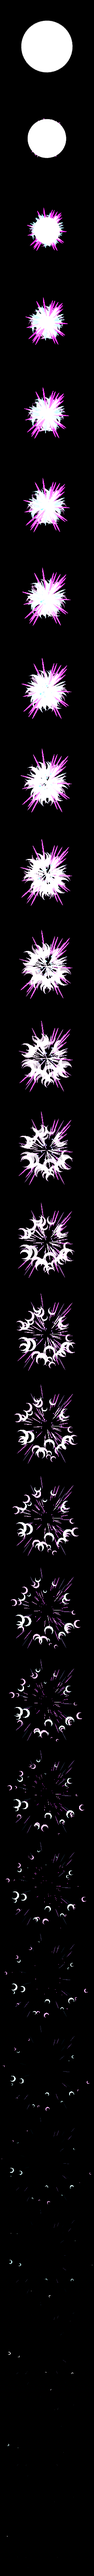
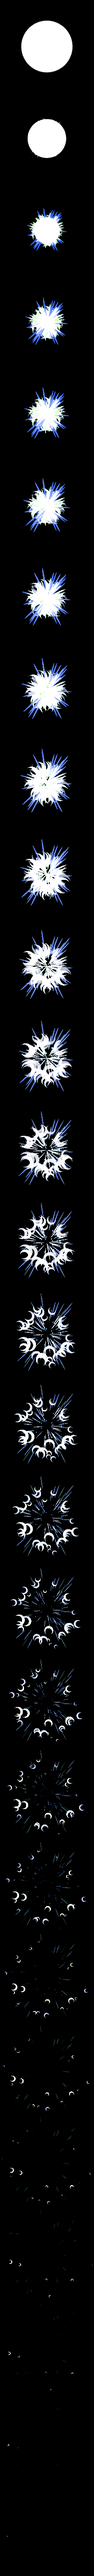
wdwd

diff --git a/NPCs/Abyssal/AbysmLunatic.cs b/NPCs/Abyssal/AbysmLunatic.cs
@@ -5,6 +5,7 @@ using ReLogic.Content;
 using Stellamod.Items.Accessories;
 using Stellamod.Items.Materials;
 using Stellamod.Items.Weapons.Mage;
+using Stellamod.NPCs.Bosses.singularityFragment;
 using Stellamod.NPCs.Overworld.ShadowWraith;
 using Stellamod.Utilis;
 using System;
@@ -41,9 +42,9 @@ namespace Stellamod.NPCs.Abyssal
         {
             NPC.width = 30;
             NPC.height = 90;
-            NPC.damage = 8;
-            NPC.defense = 2;
-            NPC.lifeMax = 40;
+            NPC.damage = 60;
+            NPC.defense = 8;
+            NPC.lifeMax = 200;
             NPC.HitSound = SoundID.DD2_SkeletonHurt;
             NPC.DeathSound = SoundID.DD2_SkeletonDeath;
             NPC.value = 30f;
@@ -59,13 +60,13 @@ namespace Stellamod.NPCs.Abyssal
         public override void FindFrame(int frameHeight)
         {
             NPC.frameCounter += 0.5f;
-            if (NPC.frameCounter >= 4)
+            if (NPC.frameCounter >= 3)
             {
                 frame++;
                 NPC.frameCounter = 0;
             }
 
-            if (frame >= 3)
+            if (frame >= 10)
             {
                 frame = 0;
             }
@@ -76,7 +77,7 @@ namespace Stellamod.NPCs.Abyssal
         public override float SpawnChance(NPCSpawnInfo spawnInfo)
         {
             Player player = spawnInfo.Player;
-            if (!(player.ZoneTowerSolar || player.ZoneTowerVortex || player.ZoneTowerNebula || player.ZoneTowerStardust && !Main.pumpkinMoon && !Main.snowMoon))
+            if (!(player.ZoneTowerSolar || player.ZoneTowerVortex || player.ZoneTowerNebula || player.ZoneTowerStardust && !Main.pumpkinMoon && !Main.snowMoon) && Main.hardMode)
             {
                 return spawnInfo.Player.ZoneAbyss() ? 1.5f : 0f;
             }
@@ -86,8 +87,9 @@ namespace Stellamod.NPCs.Abyssal
         public override void ModifyNPCLoot(NPCLoot npcLoot)
         {
             base.ModifyNPCLoot(npcLoot);
+            npcLoot.Add(ItemDropRule.Common(ModContent.ItemType<EldritchSoul>(), minimumDropped: 0, maximumDropped: 1));
             npcLoot.Add(ItemDropRule.Common(ModContent.ItemType<ConvulgingMater>(), minimumDropped: 1, maximumDropped: 4));
-            npcLoot.Add(ItemDropRule.Common(ModContent.ItemType<LunarBand>(), 30));
+            npcLoot.Add(ItemDropRule.Common(ModContent.ItemType<LunarBand>(), 50));
         }
 
         public override bool PreDraw(SpriteBatch spriteBatch, Vector2 screenPos, Color lightColor)
@@ -125,7 +127,7 @@ namespace Stellamod.NPCs.Abyssal
         public Texture2D GlowTexture => (_glowTexture ??= (ModContent.RequestIfExists<Texture2D>(GlowTexturePath, out var asset) ? asset : null))?.Value;
         public override void PostDraw(SpriteBatch spriteBatch, Vector2 screenPos, Color drawColor)
         {
-            Lighting.AddLight(NPC.Center, Color.Blue.ToVector3() * 1.75f * Main.essScale);
+            Lighting.AddLight(NPC.Center, Color.LightBlue.ToVector3() * 1.75f * Main.essScale);
             if (GlowTexture is not null)
             {
                 SpriteEffects spriteEffects = SpriteEffects.None;
@@ -160,22 +162,28 @@ namespace Stellamod.NPCs.Abyssal
                 NPC.alpha -= 2;
             }
 
-            if (NPC.ai[0] == 500)
+            if (NPC.ai[0] == 400)
             {
                 NPC.alpha = 40;
                 NPC.ai[0] = 0;
                 Vector2 direction = Vector2.Normalize(Main.player[NPC.target].Center - NPC.Center) * 8.5f;
 
-                SoundEngine.PlaySound(SoundID.Item8, NPC.position);
-                SoundEngine.PlaySound(SoundID.Zombie53, NPC.position);
+                SoundEngine.PlaySound(SoundID.Item104, NPC.position);
+                SoundEngine.PlaySound(SoundID.Zombie83, NPC.position);
                 float offsetX = Main.rand.Next(-50, 50) * 0.01f;
                 float offsetY = Main.rand.Next(-50, 50) * 0.01f;
-                int damage = Main.expertMode ? 4 : 7;
+                int damage = Main.expertMode ? 34 : 37;
                 if (Main.netMode != NetmodeID.MultiplayerClient)
-                    Projectile.NewProjectile(NPC.GetSource_FromThis(), NPC.Center.X, NPC.Center.Y, direction.X + offsetX, direction.Y + offsetY, ModContent.ProjectileType<ShadowFlare>(), damage, 1, Main.myPlayer, 0, 0);
+                    Projectile.NewProjectile(NPC.GetSource_FromThis(), NPC.Center.X, NPC.Center.Y, direction.X + offsetX, direction.Y + offsetY, ModContent.ProjectileType<VoidFlame>(), damage, 1, Main.myPlayer, 0, 0);
             }
+            if (NPC.ai[0] == 300)
+            {
+                SoundEngine.PlaySound(SoundID.Zombie82, NPC.position);
+                SoundEngine.PlaySound(SoundID.Zombie99, NPC.position);
 
-            if (NPC.ai[0] >= 400)
+                NPC.velocity *= 0.92f;
+            }
+            if (NPC.ai[0] >= 300)
             {
                 if (Main.netMode != NetmodeID.Server)
                 {

diff --git a/Projectiles/Magic/LarveinScriputeProg.cs b/Projectiles/Magic/LarveinScriputeProg.cs
@@ -43,9 +43,15 @@ namespace Stellamod.Projectiles.Magic
             {
                 Projectile.timeLeft = 2;
                 if (Main.netMode != NetmodeID.MultiplayerClient)
-                    Projectile.NewProjectile(EntitySource, Projectile.Center.X, Projectile.Center.Y, Main.rand.Next(-4, 5), Main.rand.Next(-4, 5), ModContent.ProjectileType<LarveinScriputeProg2>(), 5, 1, Main.myPlayer, 0, 0);
+                    Projectile.NewProjectile(EntitySource, Projectile.Center.X, Projectile.Center.Y, Main.rand.Next(-4, 5), Main.rand.Next(-4, 5), ModContent.ProjectileType<LarveinScriputeProg2>(), 52, 1, Main.myPlayer, 0, 0);
             }
 
+
+            Projectile.scale = 1.5f;
+            ShakeModSystem.Shake = 7;
+            float speedXa = -Projectile.velocity.X * Main.rand.NextFloat(.4f, .7f) + Main.rand.NextFloat(-8f, 8f);
+            float speedYa = -Projectile.velocity.Y * Main.rand.Next(0, 0) * 0.01f + Main.rand.Next(-20, 21) * 0.0f;
+            Projectile.NewProjectile(Projectile.GetSource_FromThis(), Projectile.position.X, Projectile.position.Y, speedXa * 0, speedYa * 0, ModContent.ProjectileType<MooningKaboom>(), (int)(0), 0f, Projectile.owner, 0f, 0f);
 
             SoundEngine.PlaySound(new SoundStyle("Stellamod/Assets/Sounds/WinterStorm"), Projectile.position);
             for (int i = 0; i < 20; i++)
@@ -61,7 +67,7 @@ namespace Stellamod.Projectiles.Magic
         {
             target.AddBuff(BuffType<AbyssalFlame>(), 200);
         }
-
+        private float Red;
         private float alphaCounter = 1;
         public override void AI()
         {
@@ -79,7 +85,16 @@ namespace Stellamod.Projectiles.Magic
             {
                 float offsetX = Main.rand.Next(-200, 200) * 0.01f;
                 float offsetY = Main.rand.Next(-200, 200) * 0.01f;
+                float A = Main.rand.Next(0, 2);
 
+                if (A == 0)
+                {
+                    Red = 15;
+                }
+                else
+                {
+                    Red = 65;
+                }
                 Projectile.velocity.X += offsetX;
                 Projectile.velocity.Y += offsetY;
                 Projectile.scale = 1.5f;
@@ -139,10 +154,10 @@ namespace Stellamod.Projectiles.Magic
         public override void PostDraw(Color lightColor)
         {
             Texture2D texture2D4 = Request<Texture2D>("Stellamod/Effects/Masks/DimLight").Value;
-            Main.spriteBatch.Draw(texture2D4, Projectile.Center - Main.screenPosition, null, new Color((int)(15f * alphaCounter), (int)(15f * alphaCounter), (int)(85f * alphaCounter), 0), Projectile.rotation, new Vector2(32, 32), 0.17f * (7 + 0.6f), SpriteEffects.None, 0f);
-            Main.spriteBatch.Draw(texture2D4, Projectile.Center - Main.screenPosition, null, new Color((int)(15f * alphaCounter), (int)(15f * alphaCounter), (int)(85f * alphaCounter), 0), Projectile.rotation, new Vector2(32, 32), 0.17f * (7 + 0.6f), SpriteEffects.None, 0f);
-            Main.spriteBatch.Draw(texture2D4, Projectile.Center - Main.screenPosition, null, new Color((int)(15f * alphaCounter), (int)(15f * alphaCounter), (int)(85f * alphaCounter), 0), Projectile.rotation, new Vector2(32, 32), 0.17f * (7 + 0.6f), SpriteEffects.None, 0f);
-            Main.spriteBatch.Draw(texture2D4, Projectile.Center - Main.screenPosition, null, new Color((int)(15f * alphaCounter), (int)(15f * alphaCounter), (int)(85f * alphaCounter), 0), Projectile.rotation, new Vector2(32, 32), 0.07f * (7 + 0.6f), SpriteEffects.None, 0f);
+            Main.spriteBatch.Draw(texture2D4, Projectile.Center - Main.screenPosition, null, new Color((int)(Red * alphaCounter), (int)(15f * alphaCounter), (int)(85f * alphaCounter), 0), Projectile.rotation, new Vector2(32, 32), 0.17f * (7 + 0.6f), SpriteEffects.None, 0f);
+            Main.spriteBatch.Draw(texture2D4, Projectile.Center - Main.screenPosition, null, new Color((int)(Red * alphaCounter), (int)(15f * alphaCounter), (int)(85f * alphaCounter), 0), Projectile.rotation, new Vector2(32, 32), 0.17f * (7 + 0.6f), SpriteEffects.None, 0f);
+            Main.spriteBatch.Draw(texture2D4, Projectile.Center - Main.screenPosition, null, new Color((int)(Red * alphaCounter), (int)(15f * alphaCounter), (int)(85f * alphaCounter), 0), Projectile.rotation, new Vector2(32, 32), 0.17f * (7 + 0.6f), SpriteEffects.None, 0f);
+            Main.spriteBatch.Draw(texture2D4, Projectile.Center - Main.screenPosition, null, new Color((int)(Red * alphaCounter), (int)(15f * alphaCounter), (int)(85f * alphaCounter), 0), Projectile.rotation, new Vector2(32, 32), 0.07f * (7 + 0.6f), SpriteEffects.None, 0f);
             Lighting.AddLight(Projectile.Center, Color.Blue.ToVector3() * 1.0f * Main.essScale);
         }
     }

diff --git a/NPCs/Abyssal/AbyssalSlime.cs b/NPCs/Abyssal/AbyssalSlime.cs
@@ -78,8 +78,12 @@ namespace Stellamod.NPCs.Abyssal
         public override void ModifyNPCLoot(NPCLoot npcLoot)
         {
             base.ModifyNPCLoot(npcLoot);
-            npcLoot.Add(ItemDropRule.Common(ItemType<ConvulgingMater>(), minimumDropped: 1, maximumDropped: 4));
-            npcLoot.Add(ItemDropRule.Common(ItemType<LunarBand>(), 30));
+            if (Main.hardMode)
+            {
+                npcLoot.Add(ItemDropRule.Common(ModContent.ItemType<EldritchSoul>(), minimumDropped: 0, maximumDropped: 1));
+            }
+            npcLoot.Add(ItemDropRule.Common(ModContent.ItemType<ConvulgingMater>(), minimumDropped: 1, maximumDropped: 4));
+            npcLoot.Add(ItemDropRule.Common(ModContent.ItemType<LunarBand>(), 50));
         }
 
         public override void AI()

diff --git a/NPCs/Abyssal/AbyssalSkull.cs b/NPCs/Abyssal/AbyssalSkull.cs
@@ -179,8 +179,12 @@ namespace Stellamod.NPCs.Abyssal
         public override void ModifyNPCLoot(NPCLoot npcLoot)
         {
             base.ModifyNPCLoot(npcLoot);
-            npcLoot.Add(ItemDropRule.Common(ItemType<ConvulgingMater>(), minimumDropped: 1, maximumDropped: 4));
-            npcLoot.Add(ItemDropRule.Common(ItemType<LunarBand>(), 30));
+            if (Main.hardMode)
+            {
+                npcLoot.Add(ItemDropRule.Common(ModContent.ItemType<EldritchSoul>(), minimumDropped: 0, maximumDropped: 1));
+            }
+            npcLoot.Add(ItemDropRule.Common(ModContent.ItemType<ConvulgingMater>(), minimumDropped: 1, maximumDropped: 4));
+            npcLoot.Add(ItemDropRule.Common(ModContent.ItemType<LunarBand>(), 50));
         }
     }
 }

diff --git a/NPCs/Abyssal/AbyssalSeeker.cs b/NPCs/Abyssal/AbyssalSeeker.cs
@@ -46,8 +46,12 @@ namespace Stellamod.NPCs.Abyssal
         public override void ModifyNPCLoot(NPCLoot npcLoot)
         {
             base.ModifyNPCLoot(npcLoot);
+            if (Main.hardMode)
+            {
+                npcLoot.Add(ItemDropRule.Common(ModContent.ItemType<EldritchSoul>(), minimumDropped: 0, maximumDropped: 1));
+            }
             npcLoot.Add(ItemDropRule.Common(ModContent.ItemType<ConvulgingMater>(), minimumDropped: 1, maximumDropped: 4));
-            npcLoot.Add(ItemDropRule.Common(ModContent.ItemType<LunarBand>(), 30));
+            npcLoot.Add(ItemDropRule.Common(ModContent.ItemType<LunarBand>(), 50));
         }
 
         public override void SetDefaults()

diff --git a/WorldG/EventWorld.cs b/WorldG/EventWorld.cs
@@ -50,7 +50,7 @@ namespace Stellamod.WorldG
             if (!Main.dayTime && !Aurorean && !AuroreanSpawn)
             {
                 AuroreanSpawn = true;
-                if (Main.rand.NextBool(3))
+                if (Main.rand.NextBool(5))
                 {
                     Aurorean = true;
                     if (!AuroreanText)

diff --git a/Projectiles/MooningKaboom.cs b/Projectiles/MooningKaboom.cs
@@ -19,7 +19,7 @@ namespace Stellamod.Projectiles
 			Projectile.height = 220;
 			Projectile.penetrate = -1;
 			Projectile.timeLeft = 56;
-			Projectile.scale = 2f;
+			Projectile.scale = 1f;
 			
 		}
 		public float Timer

diff --git a/Items/Weapons/Mage/LarveinScripute.cs b/Items/Weapons/Mage/LarveinScripute.cs
@@ -31,7 +31,7 @@ namespace Stellamod.Items.Weapons.Mage
 
 			Item.autoReuse = true;
 			Item.shoot = ProjectileType<LarveinScriputeProg>();
-			Item.shootSpeed = 15f;
+			Item.shootSpeed = 8f;
 			Item.mana = 5;
 
 
